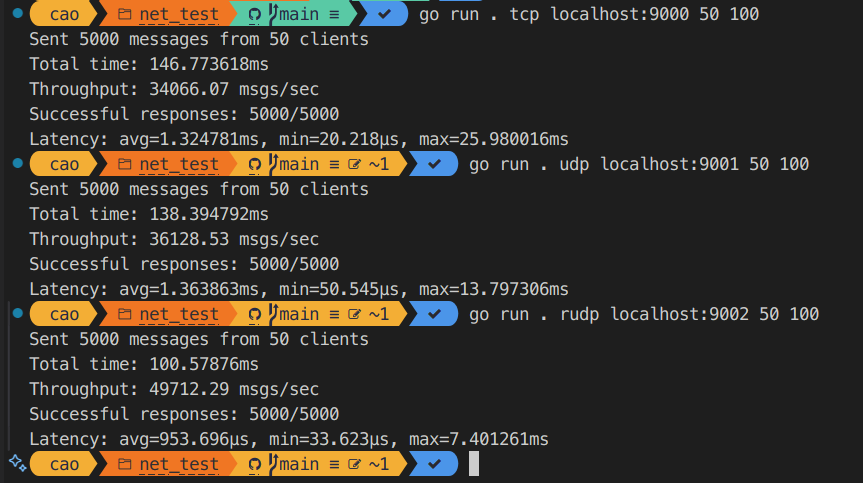
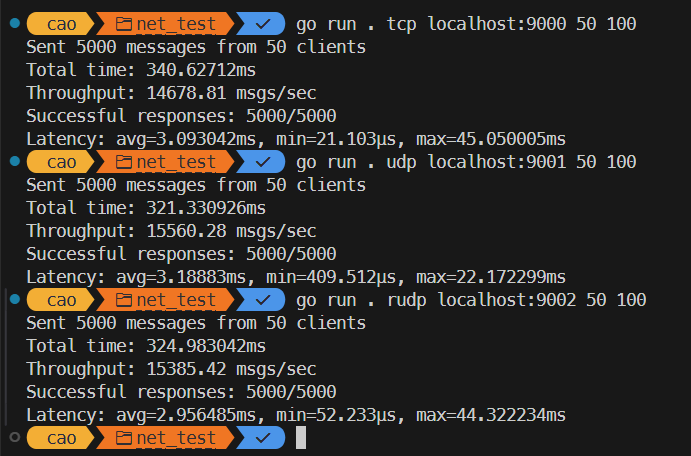
add image

Changed region(s): [[0.0, 0.0, 0.9725, 1.0]]

diff --git a/net_test/main.go b/net_test/main.go
@@ -134,7 +134,7 @@ func main() {
 					n, _, err := conn.ReadFromUDP(buf)
 					if err != nil {
 						if netErr, ok := err.(net.Error); ok && netErr.Timeout() {
-							fmt.Printf("timeout waiting for response to message %d, skipping...\n", i+1)
+							// fmt.Printf("timeout waiting for response to message %d, skipping...\n", i+1)
 							continue // Skip this message and continue to next one
 						}
 						fmt.Println("read error:", err)

diff --git a/README.md b/README.md
@@ -10,3 +10,4 @@
 ![alt text](image.png)
 
 # Server host on GCP VM result
+![alt text](image-1.png)
